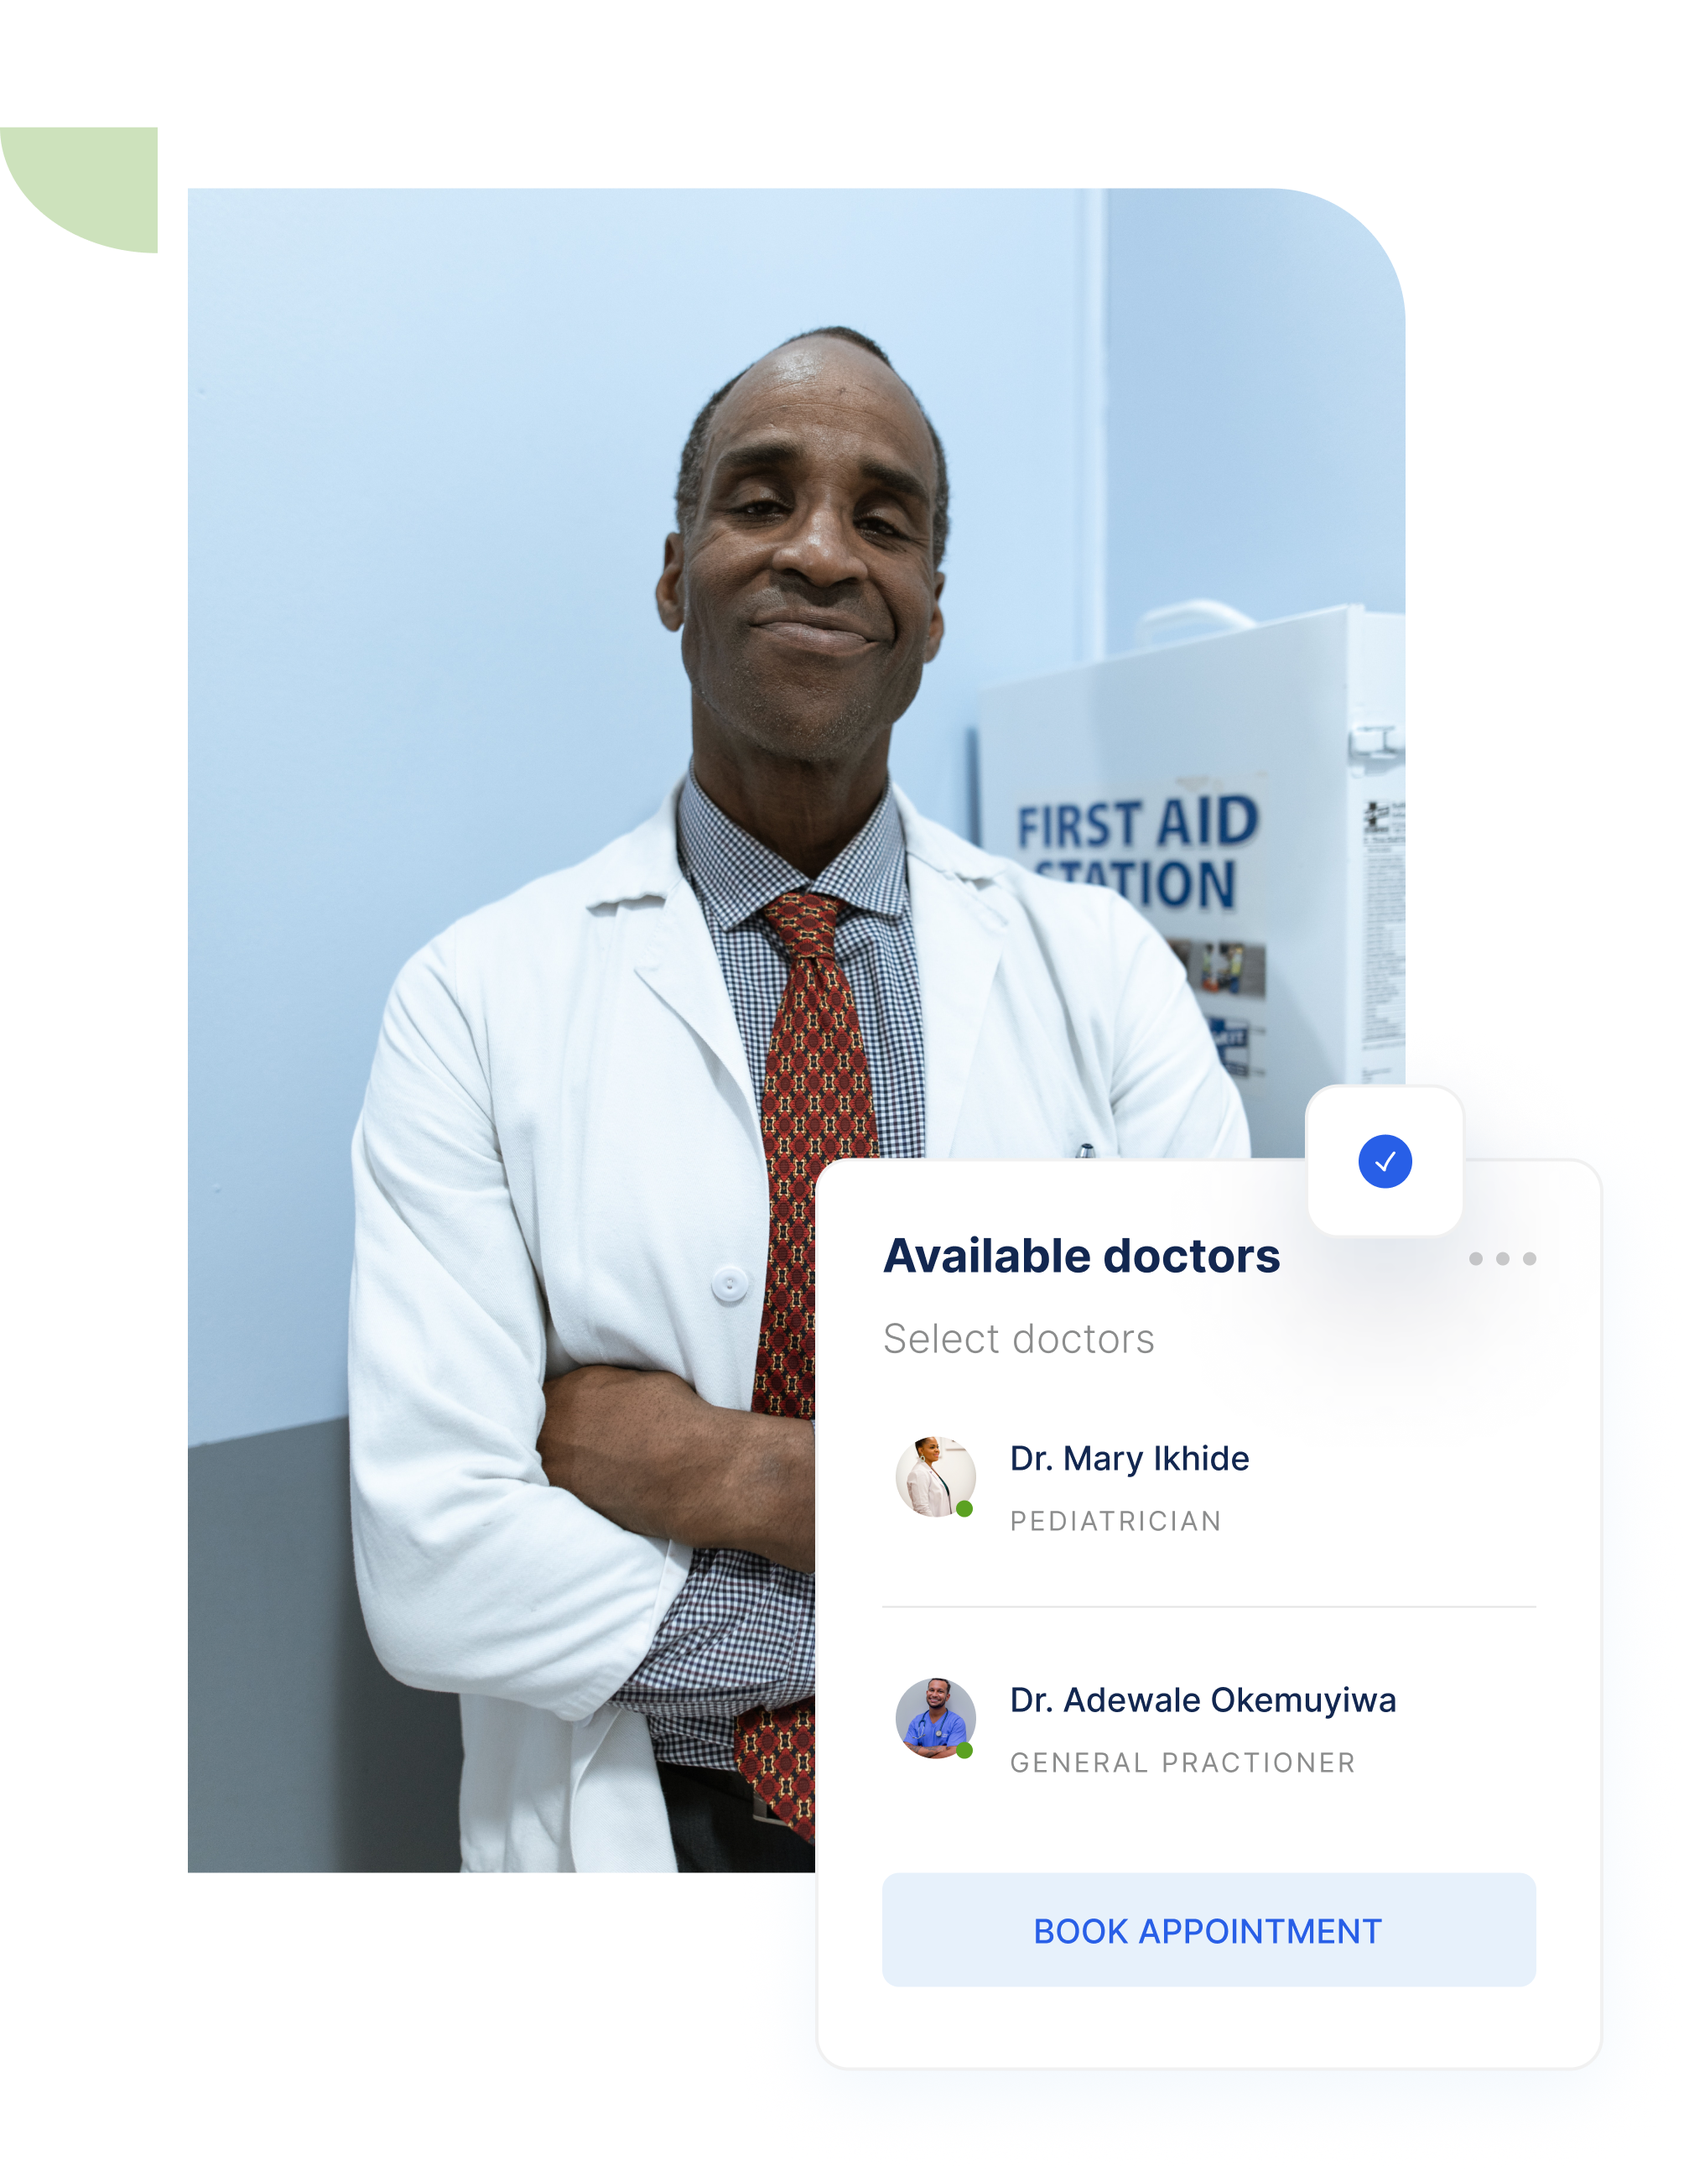
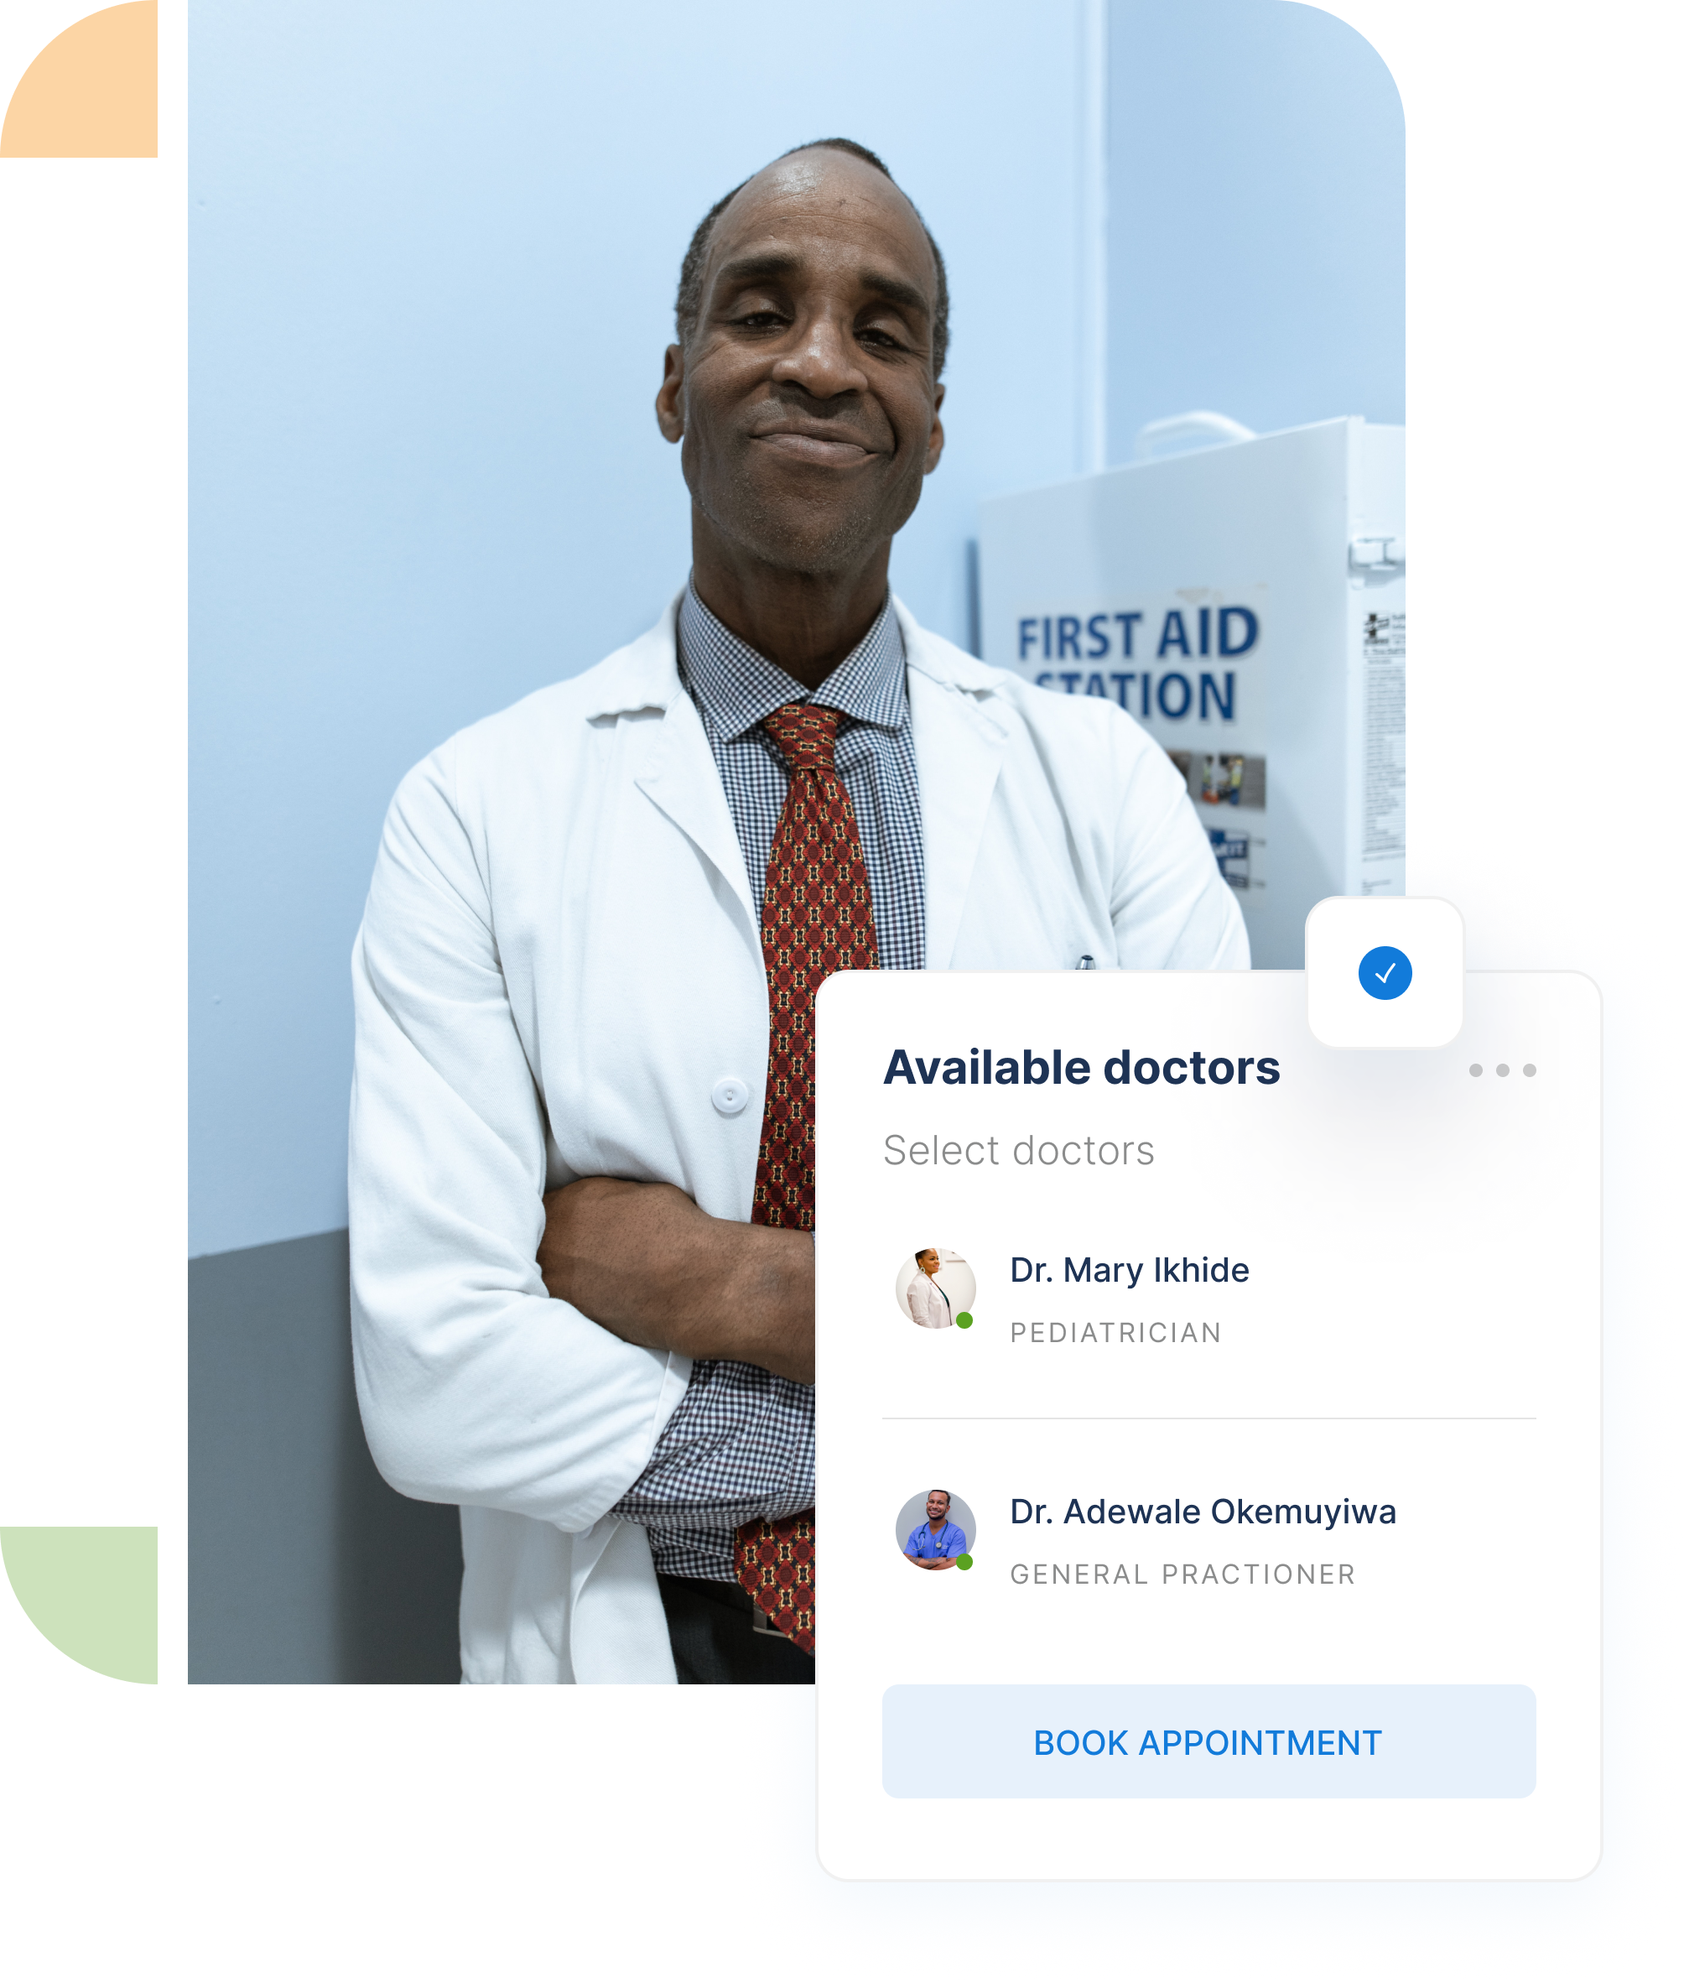
ID_Card_Verification

diff --git a/pages/Auth/[index].tsx b/pages/Auth/[index].tsx
@@ -1,0 +1,157 @@
+import Image from "next/image";
+import Link from "next/link";
+import React, { useState, useEffect } from "react";
+import Cover from "../../components/Cover";
+import Layout from "../../components/layout";
+import Avatr from "../../components/SVGs/avatr";
+import Stethoscope from "../../components/SVGs/stethoscope";
+import styles from "./styles.module.css";
+import { useRouter } from "next/router";
+const Login = () => {
+  const [width, setWidth] = useState(0);
+
+  const [height, setHeight] = useState(0);
+  const handleWindowResize = () => {
+    setWidth(window.innerWidth);
+    setHeight(window.innerHeight);
+    console.log(width);
+  };
+  useEffect(() => {
+    setWidth(window.innerWidth);
+    setHeight(window.innerHeight);
+    // component is mounted and window is available
+    handleWindowResize();
+    window.addEventListener("resize", handleWindowResize);
+    // unsubscribe from the event on component unmount
+    return () => window.removeEventListener("resize", handleWindowResize);
+  }, [width]);
+  const router = useRouter().query.index;
+  const [regLog, setRegLog] = useState("register");
+  return (
+    <Layout back="true">
+      {router === "Register" ? (
+        <>
+          <div className={styles.regBg}>
+            <Cover>
+              <div className={styles.register}>
+                <h1>Register</h1>
+              </div>
+            </Cover>
+          </div>
+          <div className={styles.regBg}>
+            <Cover>
+              <div className={styles.signUpCen}>
+                <div className={styles.signUp}>
+                  <div>
+                    <div>
+                      <Avatr />
+                    </div>
+                    <h2>Patient</h2>
+                    <p className={styles.talk}>
+                      Talk to a licensed doctor at Sanar
+                    </p>
+                    <Link href="/Register/SignUp">
+                      <div className={styles.signBtn}>
+                        <p>SIGN UP AS A PATIENT</p>
+                      </div>
+                    </Link>
+                  </div>
+                  <div>
+                    <div>
+                      <Stethoscope />
+                    </div>
+                    <h2>Doctor</h2>
+                    <p className={styles.talk}>Would you like to join us?</p>
+                    <Link href="/Register/SignUp">
+                      <div className={styles.signBtn}>
+                        <p>SIGN UP AS A DOCTOR</p>
+                      </div>
+                    </Link>
+                  </div>
+                </div>
+              </div>
+            </Cover>
+          </div>
+          <div className={styles.phys}>
+            <Cover>
+              <div className={styles.physiciams}>
+                <Image
+                  src="/Assets/Images/Physicians.png"
+                  //300
+                  width={width > 990 ? 613 : 300}
+                  //200
+                  height={width > 990 ? 408 : 200}
+                  alt="phsicians"
+                />
+              </div>
+            </Cover>
+          </div>
+          <div className={styles.register}></div>
+          <div className={styles.login}></div>
+        </>
+      ) : (
+        <>
+          <div className={styles.regBg}>
+            <Cover>
+              <div className={styles.register}>
+                <h1>Login</h1>
+              </div>
+            </Cover>
+          </div>
+          <div className={styles.regBg}>
+            <Cover>
+              <div className={styles.signUpCen}>
+                <div className={styles.signUp}>
+                  <div>
+                    <div>
+                      <Avatr />
+                    </div>
+                    <h2>Patient</h2>
+                    <p className={styles.talk}>
+                      Talk to a licensed doctor at Sanar
+                    </p>
+                    <Link href="/Register/Login">
+                      <div className={styles.signBtn}>
+                        <p>LOG IN AS PATIENT</p>
+                      </div>
+                    </Link>
+                  </div>
+                  <div>
+                    <div>
+                      <Stethoscope />
+                    </div>
+                    <h2>Doctor</h2>
+                    <p className={styles.talk}>Would you like to join us?</p>
+                    <Link href="/Register/Login">
+                      <div className={styles.signBtn}>
+                        <p>LOG IN AS DOCTOR</p>
+                      </div>
+                    </Link>
+                  </div>
+                </div>
+              </div>
+            </Cover>
+          </div>
+          <div className={styles.phys}>
+            <Cover>
+              <div className={styles.physiciams}>
+                <Image
+                  src="/Assets/Images/loginImmages.png"
+                  //300
+                  width={width > 990 ? 613 : 300}
+                  //200
+                  height={width > 990 ? 408 : 200}
+                  alt="phsicians"
+                />
+              </div>
+            </Cover>
+          </div>
+          <div className={styles.register}></div>
+          <div className={styles.login}></div>
+        </>
+      )}
+    </Layout>
+  );
+};
+
+export default Login;

diff --git a/pages/Home/index.tsx b/pages/Home/index.tsx
@@ -17,6 +17,7 @@ import ScalpleSvg from "../../components/SVGs/scalpleSvg";
 import ViginalSvg from "../../components/SVGs/viginalSvg";
 import DermatologySvg from "../../components/SVGs/dermatologySvg";
 import VirusSvg from "../../components/SVGs/virusSvg";
+import BackSvg from "../../components/SVGs/backSvg";
 
 const Homepage = () => {
   const [width, setWidth] = useState(991);
@@ -68,48 +69,6 @@ const Homepage = () => {
         </Cover>
         <div className={styles.specialisationBg}>
           <Cover>
-            <div className={styles.eclipses}>
-              <svg
-                width="30"
-                height="25"
-                viewBox="0 0 30 25"
-                fill="none"
-                xmlns="http://www.w3.org/2000/svg"
-              >
-                <path
-                  d="M0 24.2293C0 17.8824 3.1607 11.7955 8.78679 7.30756C14.4129 2.81964 22.0435 0.298347 30 0.29834L30 24.2293L0 24.2293Z"
-                  fill="#FCD5A5"
-                />
-              </svg>
-              <svg
-                width="27"
-                height="21"
-                viewBox="0 0 27 21"
-                fill="none"
-                xmlns="http://www.w3.org/2000/svg"
-              >
-                <path
-                  d="M21.9902 0.0297573C24.7569 2.31013 26.2746 5.37382 26.2095 8.54683C26.1444 11.7198 24.5018 14.7423 21.6431 16.9492C18.7845 19.1562 14.9438 20.3668 10.9661 20.3149C6.98837 20.263 3.19943 18.9527 0.432786 16.6723L11.2115 8.35105L21.9902 0.0297573Z"
-                  fill="#B7D7F3"
-                />
-              </svg>
-              <svg
-                width="41"
-                height="33"
-                viewBox="0 0 41 33"
-                fill="none"
-                xmlns="http://www.w3.org/2000/svg"
-              >
-                <ellipse
-                  cx="18.1561"
-                  cy="18.0246"
-                  rx="18.1561"
-                  ry="18.0246"
-                  transform="matrix(-0.791559 0.611092 -0.771661 -0.636034 48.5625 16.99)"
-                  fill="#CDE2BC"
-                />
-              </svg>
-            </div>
             {/* section 1 */}
             <div className={styles.specials}>
               <div className={styles.specialisationSect}>
@@ -354,8 +313,7 @@ const Homepage = () => {
               <h1>Our highly qualified doctors</h1>
               <Link href="/Doctors">
                 <span>
-                  <p>See More</p>
-                  <AiOutlineArrowRight />
+                  <p>SEE MORE </p> <AiOutlineArrowRight />
                 </span>
               </Link>
             </div>
@@ -422,6 +380,7 @@ const Homepage = () => {
                     <Link href="#">
                       <p className={styles.arrowRight}>
                         {" "}
+                        <BackSvg />
                         <AiOutlineArrowRight />
                       </p>
                     </Link>

diff --git a/pages/Home/styles.module.css b/pages/Home/styles.module.css
@@ -213,6 +213,7 @@ width: 60%;
     display: flex;
     justify-content: space-between;
     align-items: center;
+    margin-top: 105px;
 }
 .consultCover div{
     width: 50%;
@@ -286,7 +287,9 @@ font-weight: 400;
 font-size: 16px;
 line-height: 19px;
 text-align: center;
-
+line-height: 39px;
+/* identical to box height */
+margin-bottom: 8px;
 /* Secondary text */
 
 color: #8B8C8C;
@@ -445,7 +448,7 @@ font-weight: 500;
 font-size: 14px;
 line-height: 17px;
 /* identical to box height */
-
+margin-right: 7px;
 
 /* Brand color 2 */
 
@@ -530,6 +533,10 @@ color: #122750;
 }
 .arrowRight{
     color: #5BA121 !important;
+    display: flex;
+    justify-content: space-between;
+    gap: 17px;
+    align-items: center;
 }
 
 @media screen and (max-width: 990px) {
@@ -613,7 +620,7 @@ color: #1E3354;
 font-style: normal;
 font-weight: 700;
 font-size: 24px;
-line-height: 29px;
+line-height: 39px;
 /* identical to box height */
 margin-bottom: 8px;
 text-align: center;
@@ -640,6 +647,8 @@ color: #1E3354;
     justify-content: space-between;
     flex-direction: column;
     align-items: center;
+    margin-top: 72px;
+
 }
 .consultCover div{
     width: 100%;

diff --git a/components/Navbar/index.tsx b/components/Navbar/index.tsx
@@ -92,7 +92,7 @@ const Navbar = ({ back }: { back: any }) => {
                 <Link href="#joinArea">Doctors</Link>
                 <Link href="#">Pharmacies</Link>
                 <Link href="#">Help</Link>
-                <Link href="Auth">
+                <Link href="Auth/Login">
                   <div className={styles.loginDiv}>
                     <p>LOG IN</p>
                   </div>
@@ -107,7 +107,7 @@ const Navbar = ({ back }: { back: any }) => {
                 <Link href="#joinArea">Doctors</Link>
                 <Link href="#">Pharmacies</Link>
                 <Link href="#">Help</Link>
-                <Link href="Auth">
+                <Link href="Auth/Register">
                   <div className={styles.loginDiv}>
                     <p>LOG IN</p>
                   </div>

diff --git a/pages/Register/[index].tsx b/pages/Register/[index].tsx
@@ -5,15 +5,17 @@ import Facebook from "../../components/SVGs/facebook";
 import G10 from "../../components/SVGs/g10";
 import Googleicon from "../../components/SVGs/googleicon";
 import styles from "./styles.module.css";
+import { useRouter } from "next/router";
 
 const Register = () => {
   const [rigisterLogin, setRegisterLogin] = useState<boolean>(true);
+  const router = useRouter().query.index;
   return (
     <Layout back="">
       <div className={styles.register}>
         <div className={styles.registerSections}>
           <section className={styles.registerInputSection}>
-            {rigisterLogin ? (
+            {router !== "Login" ? (
               <div>
                 <div className={styles.regi}>
                   <h1>Register</h1>

diff --git a/components/SVGs/backSvg.tsx b/components/SVGs/backSvg.tsx
@@ -1,0 +1,20 @@
+import React from "react";
+
+const BackSvg = () => {
+  return (
+    <svg
+      width="15"
+      height="12"
+      viewBox="0 0 15 12"
+      fill="none"
+      xmlns="http://www.w3.org/2000/svg"
+    >
+      <path
+        d="M2.87097 6.75L6.89397 10.773L5.83347 11.8335L-2.76566e-05 6L5.83347 0.166494L6.89397 1.22699L2.87097 5.24999L15 5.24999V6.75L2.87097 6.75Z"
+        fill="#CDCDCD"
+      />
+    </svg>
+  );
+};
+
+export default BackSvg;

diff --git a/components/Footer/styles.module.css b/components/Footer/styles.module.css
@@ -154,7 +154,8 @@ padding-bottom: 17px;
     display: flex;
     justify-content: space-between;
     align-items: center;
-    width: 30%;
+    width: fit-content;
+    gap: 18px;
 }
 @media screen and (max-width: 990px) {
     .footermain{

diff --git a/components/buttons/Register/index.tsx b/components/buttons/Register/index.tsx
@@ -4,7 +4,7 @@ import styles from "./styles.module.css";
 
 const RegisterBtn = () => {
   return (
-    <Link href="/Auth">
+    <Link href="/Auth/Register">
       <div className={styles.registerDiv}>
         <p>REGISTER</p>
       </div>

diff --git a/pages/Register/styles.module.css b/pages/Register/styles.module.css
@@ -59,6 +59,7 @@ justify-content: center;
 align-items: center;
 padding: 11px 34px;
 gap: 10px;
+width: 100%;
 
 }
 .signInWith p{

diff --git a/components/Cover/styles.module.css b/components/Cover/styles.module.css
@@ -3,6 +3,6 @@
     justify-content: center;
 }
 .innerModule{
-    width: 80%;
+    width: 90%;
     max-width: 1522px;
 }
